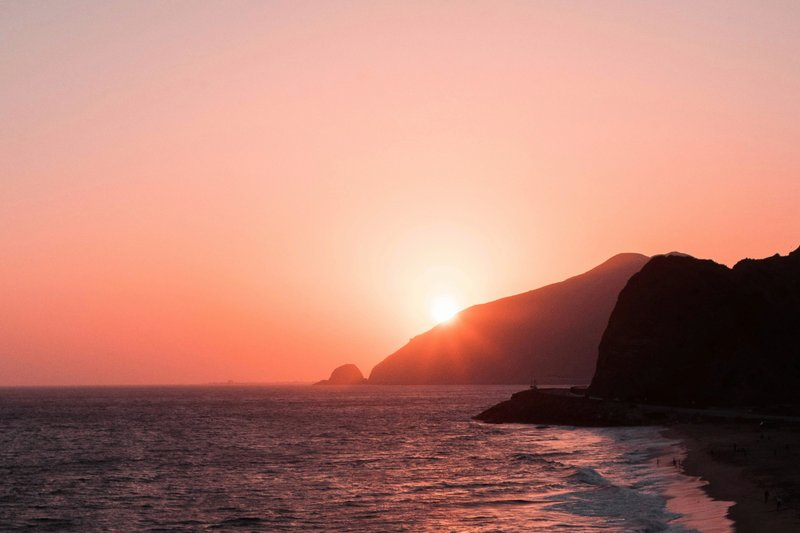
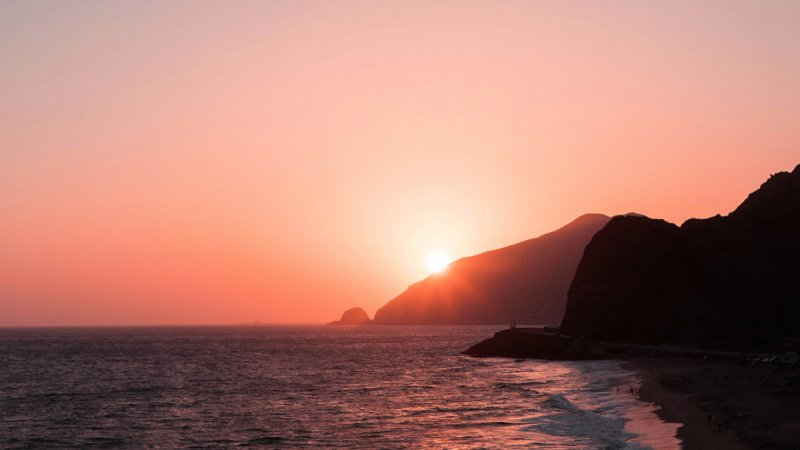
feat: replace Kailash with Beachh Header and Monk Beach 2, optimize mobile hero framing

diff --git a/assets/css/style.css b/assets/css/style.css
@@ -159,7 +159,7 @@ nav.glass-nav a {
   display: flex;
   align-items: center;
   background-image: linear-gradient(rgba(0, 0, 0, 0.08), rgba(0, 0, 0, 0.08)), url('/images/hero-bg.jpg');
-  background-position: center 30%;
+  background-position: 85% center; /* Anchors monk & mountain vista gracefully on desktop */
   background-size: cover;
   background-repeat: no-repeat;
   background-attachment: scroll;
@@ -312,7 +312,7 @@ nav.glass-nav a {
 }
 
 .blog-header {
-  background-image: linear-gradient(rgba(0, 0, 0, 0.35), rgba(0, 0, 0, 0.35)), url('/images/Kailash.jpg');
+  background-image: linear-gradient(rgba(0, 0, 0, 0.35), rgba(0, 0, 0, 0.35)), url('/images/Beachh Header.jpg');
   background-position: center 40%;
   background-size: cover;
   background-repeat: no-repeat;
@@ -655,16 +655,23 @@ body.theme-slate footer {
   }
   
   .hero {
-    min-height: 100vh;
+    min-height: 75vh;
     height: auto;
     padding: calc(var(--header-height) + 2rem) 0 3rem;
+    background-position: 80% 25%;
+  }
+  
+  .blog-header, .post-hero {
+    min-height: 38vh;
+    padding: calc(var(--header-height) + 25px) 0 2.5rem;
+    margin-bottom: 3rem;
   }
   
   .hero-content {
     min-height: auto;
     padding-top: 0;
     padding-bottom: 0;
-    gap: 3rem;
+    gap: 2.5rem;
   }
   
   .hero h1 {
@@ -708,13 +715,25 @@ body.theme-slate footer {
   }
   
   .hero {
-    min-height: 100vh;
+    min-height: clamp(480px, 70vh, 620px);
     height: auto;
-    padding: calc(var(--header-height) + 1.5rem) 0 2.5rem;
+    padding: calc(var(--header-height) + 1.25rem) 0 2.5rem;
+    background-position: 78% 20%;
+    background-size: cover;
+  }
+
+  .blog-header, .post-hero {
+    min-height: 280px;
+    padding: calc(var(--header-height) + 20px) 0 2rem;
+    margin-bottom: 2.5rem;
+  }
+
+  .blog-header h1, .post-hero h1.post-title {
+    font-size: 2.4rem;
   }
 
   .hero-content {
-    gap: 2rem;
+    gap: 1.75rem;
   }
   
   .hero h1 {

diff --git a/layouts/_default/single.html b/layouts/_default/single.html
@@ -1,7 +1,7 @@
 {{ define "main" }}
 {{ if eq site.Params.headerStyle "image" }}
 <header class="post-hero">
-  <div class="post-hero-bg" {{ if .Params.image }}style="background-image: linear-gradient(rgba(0,0,0,0.35), rgba(0,0,0,0.35)), url('{{ .Params.image | relURL }}');"{{ else }}style="background-image: linear-gradient(rgba(0,0,0,0.35), rgba(0,0,0,0.35)), url('/images/Monk Meditating.jpg');"{{ end }}></div>
+  <div class="post-hero-bg" {{ if .Params.image }}style="background-image: linear-gradient(rgba(0,0,0,0.35), rgba(0,0,0,0.35)), url('{{ .Params.image | relURL }}');"{{ else }}style="background-image: linear-gradient(rgba(0,0,0,0.35), rgba(0,0,0,0.35)), url('/images/Monk Beach 2.jpg');"{{ end }}></div>
   <div class="container post-hero-inner">
     <div class="post-meta">
       <time datetime="{{ .Date.Format "2006-01-02" }}">{{ .Date.Format "January 2, 2006" }}</time>

diff --git a/content/posts/post-6.md b/content/posts/post-6.md
@@ -2,7 +2,7 @@
 title: "Post 6 Headline"
 date: 2024-05-24T12:00:00Z
 description: "A placeholder post to demonstrate the blogging layout. In being, we find absolute clarity."
-image: "/images/kailash-card.jpg"
+image: "/images/monk-beach-2-card.jpg"
 tags: ["Reflection", "Stillness"]
 draft: false
 ---
